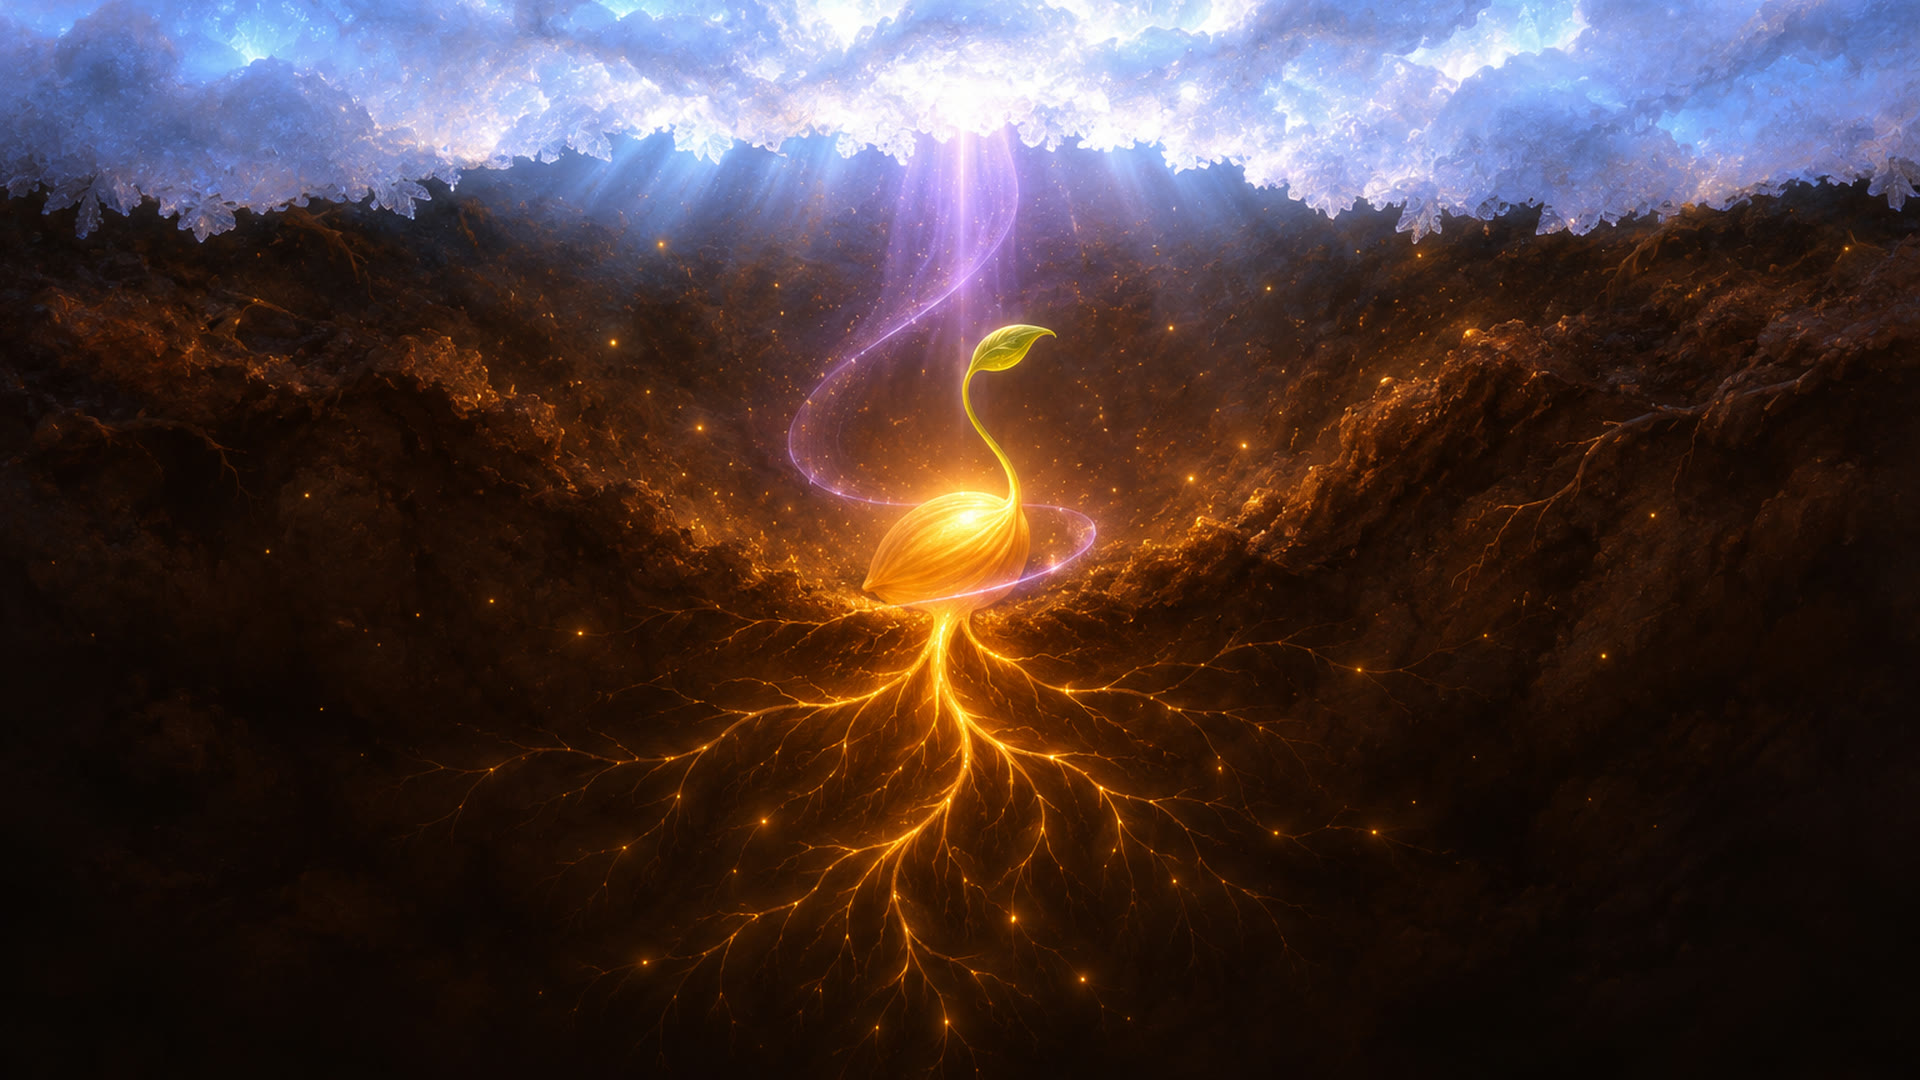
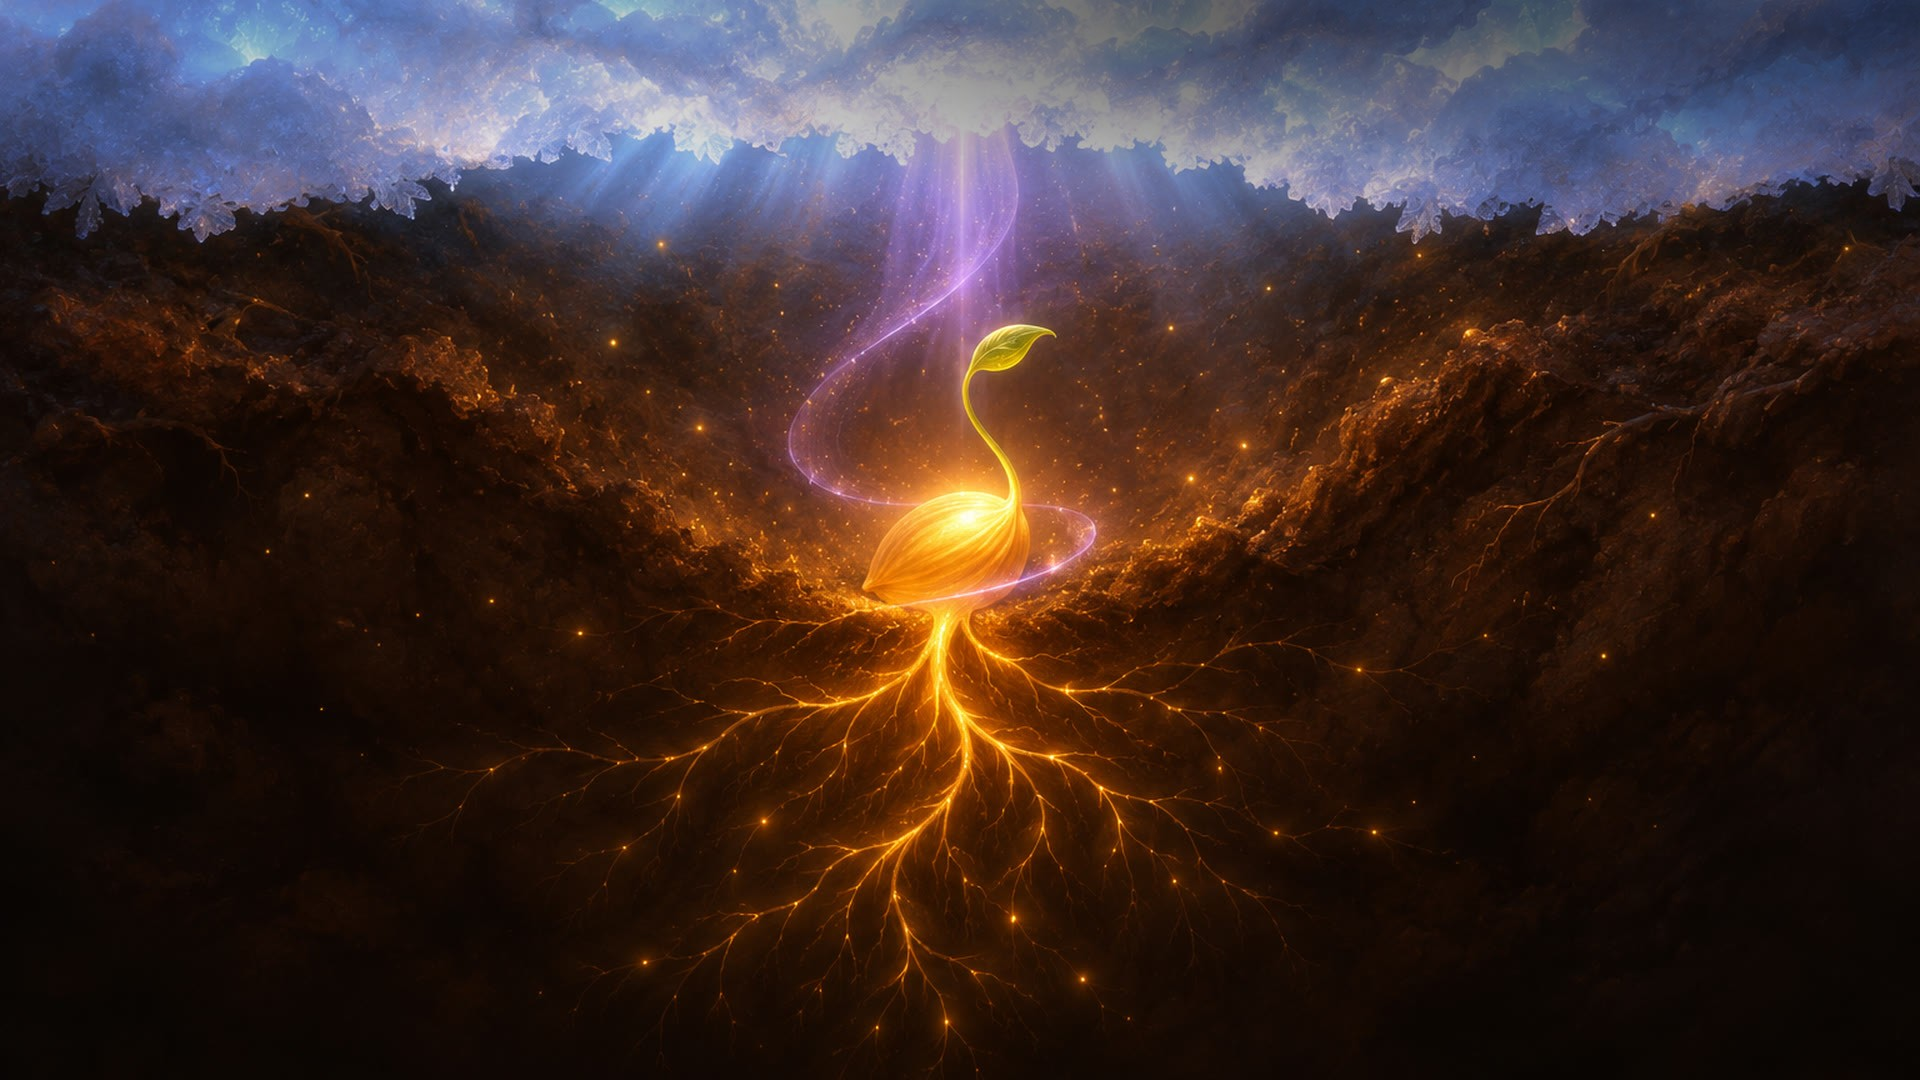
Song 02 v2 round 3: trio off the light column in pale gold, rose shore to the end, plates touched up
Claude-Session: https://claude.ai/code/session_01DSHsMeB7ain7qg3RYXYMEW

Changed region(s): [[0.0, 0.0, 1.0, 0.2139]]

diff --git a/engine/songs/s02_the_rose.py b/engine/songs/s02_the_rose.py
@@ -4,18 +4,17 @@ Design: project-docs/designs/02 The Rose.md ("The Seed Under the Snow"), DESIGN-
 deep winter night with snowfall, a pale pink spring dawn; silver blue, white, blush pink; close and quiet framing).
 Painted plates from Assets/s02 (assets/plates/s02/) and the song's own people of light (assets/song_figures/s02/).
 
-Five scenes, each with its own camera and main object:
+Four scenes, each with its own camera and main object:
   0 to 14.5 1 FIRST SNOW: a wide night lake, the home star low between the mountains, snow begins and thickens
             as the camera slowly closes in; fragment "too lonely"
   12 to 30  2 THE CANDLE FIELD: violet light pours onto the snowbound lake and small lights glow all over it;
             three women of light come to the kneeling traveler and act out Encouragement (they gather round,
             one relights the traveler's lantern from her own flame, one wraps her scarf round the traveler, one
             prays; then the traveler stands with them, lantern raised). The full words form and fly into star 7
-  27.5 to 40 3 THE SEED UNDER THE SNOW: a high ceiling of snow and ice, the dark soil, the seed with gold roots;
+  27.5 to 42 3 THE SEED UNDER THE SNOW: a high ceiling of snow and ice, the dark soil, the seed with gold roots;
             a violet thread of light falls to it; fragment "the seed" is written in light
-  37.5 to 51 4 THE ROSE: a low close shot on the near shore, the rose of light at dawn; petals fall;
-            fragment "becomes the rose" settles in petals
-  47.5 to 60 5 SPRING DAWN: closer on the near shore where the rose stands, the three-line end card
+  39.7 to 60 4 THE ROSE: a low close shot on the near shore, the rose of light at dawn; petals fall;
+            fragment "becomes the rose" settles in petals; the three-line end card on the same close shore
 Signature effects: falling snow in depth (SNOW), the seed under the snow (plate and BEAM), the rose and its
 petals (plates, PETALS, the petals fragment). The freeze and thaw belong to song 04, so this file uses no ICE.
 
@@ -140,10 +139,10 @@ ENC_FORM = 15.6        # the words start forming as the women kneel and pray (fu
 ENC_HOLD = 26.0        # the words begin to fly (6.65 seconds fully formed and solid)
 ENC_ARRIVE = 28.5      # they reach star 7: a flare and one new thin ring
 NINTH = 1e9            # the whole arch does not glow at the end of this song
-TITLE_HIT = 52.0       # end card
+TITLE_HIT = 52.6       # end card
 SKYLINE_LANTERN = 0.0  # all plates: no light along the drawn skyline
 TEXT_PROTECT = 1.0
-TEXT_SHADOW = Track([(0, 1.2), (38.0, 1.2), (40.0, 1.9), (TOTAL, 1.9)])   # deeper calm behind words on bright dawn
+TEXT_SHADOW = Track([(0, 1.2), (39.5, 1.2), (41.0, 1.9), (TOTAL, 1.9)])   # deeper calm behind words on bright dawn
 
 # Procedural sky and lake: only a fallback behind the plates (never seen on its own)
 PAL = {
@@ -185,25 +184,28 @@ AURORA_COOL = ("#c9d8ff", "#e4d8ff")
 #   1 wide night lake, first snow, the home star low between the mountains; the camera slowly closes in
 #     as the night deepens (0 to 14.5)
 #   2 the violet light on the ice and the field of candle lights: the trio comes (12 to 30)
-#   3 under the snow: high ice ceiling, the seed and its gold roots in the soil (27.5 to 40)
-#   4 low close shot on the near shore: the rose of light (37 to 51)
-#   5 spring dawn, closer on the near shore where the rose stands, for the end card (47.5 to 60)
+#   3 under the snow: high ice ceiling, the seed and its gold roots in the soil (27.5 to 42)
+#   4 low close shot on the near shore: the rose of light, then the end card beside it (39.7 to 60)
+# The plates were touched up for song 02 (plates_fix notes in project-docs/status/02.md): the top left star
+# band of a_first_snow dimmed, the light column and pool of c_violet_ice darkened behind the people and the
+# candles at its bottom edge calmed, the ice ceiling of d_seed darkened near the arch, the ice floes of
+# e_thaw_rose painted out and its sky near the arch calmed.
 P = "assets/plates/s02/"
 SCENES = [
     dict(image=P + "a_first_snow.jpg", t0=0.0, t1=14.5, fade_in=1.0, fade_out=2.5,
          zoom=(1.0, 1.10), pan=((0.0, 0.0), (0.0, 0.015)), water=True, water_line=0.36,
          gain=Track([(0, 1.0), (9.0, 1.0), (14.0, 0.85), (TOTAL, 0.85)])),
     dict(image=P + "c_violet_ice.jpg", t0=12.0, t1=30.0, fade_in=2.5, fade_out=2.5, transition="fade",
-         zoom=(1.04, 1.10), pan=((0.0, 0.0), (0.0, 0.015)),
-         gain=Track([(0, 0.62), (27.0, 0.62), (30.0, 0.85)])),
-    dict(image=P + "d_seed.jpg", t0=27.5, t1=40.0, fade_in=2.5, fade_out=2.5, transition="fade",
+         zoom=(1.10, 1.14), pan=((0.0, 0.04), (0.0, 0.05)),     # framed up: fewer candles at the bottom edge
+         gain=Track([(0, 0.72), (27.0, 0.72), (30.0, 0.85)])),
+    dict(image=P + "d_seed.jpg", t0=27.5, t1=42.2, fade_in=2.5, fade_out=2.5, transition="fade",
          zoom=(1.02, 1.12), pan=((0.0, 0.0), (0.0, 0.01)),
-         gain=Track([(0, 1.0), (31.0, 1.0), (32.5, 0.82), (38.0, 0.82), (40.0, 1.0)])),
-    dict(image=P + "e_thaw_rose.jpg", t0=37.5, t1=50.5, fade_in=2.5, fade_out=3.0, transition="ripple",
-         ripple_from=(0.15, 0.45), zoom=(1.10, 1.04), pan=((-0.03, 0.0), (-0.01, 0.0)), gain=Track([(0, 0.9), (39.5, 0.9), (41.0, 0.78), (46.5, 0.78), (50.5, 0.9)])),
-    dict(image=P + "f_spring_dawn.jpg", t0=47.5, t1=61.0, fade_in=3.0, fade_out=0.0, transition="fade",
-         zoom=(1.40, 1.36), pan=((-0.22, -0.12), (-0.23, -0.13)),
-         gain=Track([(0, 0.85), (49.0, 0.85), (51.0, 0.66), (TOTAL, 0.66)])),
+         gain=Track([(0, 1.0), (30.5, 1.0), (32.0, 0.82), (TOTAL, 0.82)])),
+    # the rose shore holds to the end: the end card stands on the close dawn shore beside the rose
+    dict(image=P + "e_thaw_rose.jpg", t0=39.7, t1=61.0, fade_in=2.5, fade_out=0.0, transition="fade",
+         zoom=(1.10, 1.17), pan=((-0.05, 0.045), (-0.05, 0.045)),
+         gain=Track([(0, 0.85), (41.0, 0.85), (42.0, 0.78), (47.0, 0.78), (49.0, 0.86), (51.0, 0.68),
+                     (TOTAL, 0.68)])),
 ]
 
 # ----------------------------------------------------------------- effect layers
@@ -234,8 +236,8 @@ for i in range(9):
 SF = "assets/song_figures/s02/"
 FIGURES = [
     dict(poses=[SF + "trio_1_arrival.png", SF + "trio_2_encourage.png", SF + "trio_3_rise.png"],
-         t0=FIG_IN, t1=ENC_HOLD - 0.5, pose_times=[16.6, 22.4], morph=0.6, x=0.5, y=0.34, height=0.32,
-         to_star=6, color="#e2d2ff", glow=1.25),
+         t0=FIG_IN, t1=ENC_HOLD - 0.5, pose_times=[16.6, 22.4], morph=0.6, x=0.40, y=0.34, height=0.32,
+         to_star=6, color="#ffd9a8", glow=0.9),   # pale gold, beside the violet column, so they stand out
 ]
 
 OFF = dict(form=1e9, hold=1e9, star=1e9)
@@ -259,8 +261,8 @@ TITLE = dict(label="Healing Concert", lines=["The Words of Mother’s Love"], si
 # Short lyric fragments (a few words each; the song is copyrighted). Never on screen with the expression.
 FRAGMENTS = [
     dict(text="too lonely", t0=4.6, t1=6.6, out=9.6, dy=0.03, size=84, glow="#cfe0ff"),
-    dict(text="the seed", t0=31.8, t1=34.6, out=37.6, dy=0.13, size=88, glow="#ffc98a", style="write"),
-    dict(text="becomes the rose", t0=40.0, t1=43.0, out=46.0, dy=0.02, size=100, style="petals",
+    dict(text="the seed", t0=31.0, t1=33.6, out=36.6, dy=0.13, size=88, glow="#ffc98a", style="write"),
+    dict(text="becomes the rose", t0=41.2, t1=44.0, out=47.0, dy=0.02, size=100, style="petals",
          colors=("#e98aa3", "#ffd3dd")),
 ]
 
